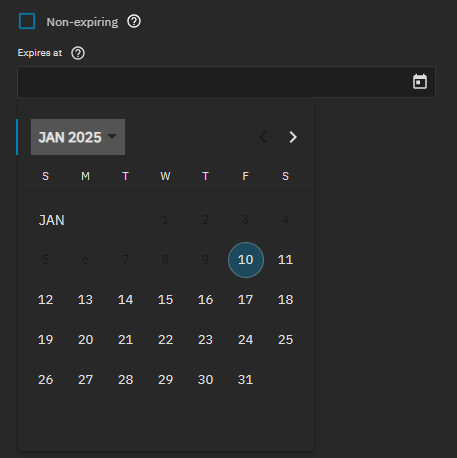
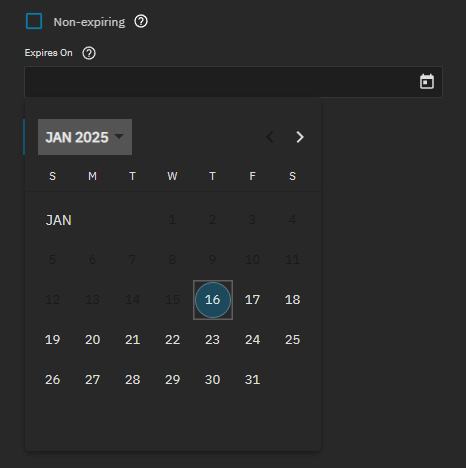
PD-1561 / None / Pd 1561 api key from api content (#3437)
* Update _index.md

* Update SCALEReleaseNotes.md

* Update ManagingAPIKeys.md

* Update APIKeyWarn.md

* Update _index.md

* Update SCALEReleaseNotes.md

* Update ManagingAPIKeys.md

* Update APIKeysScreen.md

* Update 25.04FeatureList.md

* Create API_AD.md

* Create APIKeyMigrate.md

* Update APIKeyWarn.md

* Update ManagingAPIKeys.md

* Update ManagingAPIKeys.md

* Update APIKeyMigrate.md

* Update APIKeyExpires.png

* Update APIKeyWarn.md

* Update APIKeyWarn.md

* Update ManagingAPIKeys.md

diff --git a/content/SCALE/GettingStarted/SCALEReleaseNotes.md b/content/SCALE/GettingStarted/SCALEReleaseNotes.md
@@ -59,9 +59,22 @@ More details are available from [Software Releases]({{< relref "/TrueNASUpgrades
   You can access TrueNAS API documentation in the web interface by clicking <i class="material-icons" aria-hidden="true" title="laptop" style="vertical-align: top;">laptop</i> **My API Keys** on the top right toolbar <i class="material-icons" aria-hidden="true">account_circle</i> user settings dropdown menu to open the **User API Keys** screen.
   Click **API Docs** to view API documentation.
 
+* 25.04 also introduces user-linked API access keys, allowing administrators to configure per-user access to the TrueNAS API.
+  Keys are revokable and can be configured to automatically expire on a preset date.
+  
+  {{< include file="/static/includes/API_AD.md" >}}
+
+  User-linked API keys allow for better integration of TrueNAS into third-party solutions.
+  Use this as a reference for projects that require direct TrueNAS integration.
+
+  {{< include file="/static/includes/APIKeyWarn.md" >}}
+
+  See [Managing API Keys]({{< relref "/scale/scaletutorials/toptoolbar/managingapikeys.md" >}}) for more information.
+
+  * {{< include file="/static/includes/APIKeyMigrate.md" >}}
+
 * The default libvirt account UID and GID is changed to to avoid possible clashes with user created Active Directory (AD) users. TrueNAS automatically updates libvirt UID and GIDs when upgraded to 25.04. Users attempting revert to 24.10 or an earlier release must manually review and update libvirt-qemu user and group IDs back to the values that were default in that version (64055:64055 for 24.10).
 
-   
 ### Upgrade Paths (Anticipated)
 <!--
 {{< include file="/static/includes/25.04UpgradeMethods.md" >}}
@@ -118,11 +131,9 @@ For more details on feature flags, see [OpenZFS Feature Flags](https://openzfs.g
 
 ## 25.04 Nightly Development Changelog
 
-* The TrueNAS REST API is deprecated in TrueNAS 25.04 and replaced by the [TrueNAS websocket client](https://github.com/truenas/api_client). Full removal of the REST API is planned for a future release.
-* The default libvirt account UID & GID is changed to a less common value to avoid clashing with user created UID/GIDs. See Upgrade Notes above for more information ([NAS-131695](https://ixsystems.atlassian.net/browse/NAS-131695)).
+* The TrueNAS REST API is deprecated in TrueNAS 25.04 and replaced with a versioned JSON-RPC 2.0 over WebSocket API ([API Reference]({{< relref "/scale/api/_index.md" >}})). Full removal of the REST API is planned for a future release.
 * Improved API key mechanism with support for user-linked API keys ([NAS-131396](https://ixsystems.atlassian.net/browse/NAS-131396)).
-  Existing API keys created via the TrueNAS API (not UI or TrueCommand) that specify an allow list with white-listed API methods are revoked upon upgrade because there is no clean way to migrate to the new system.
-  Legacy API keys from TrueNAS 24.10 or earlier migrate to the root, admin, or truenas_admin account, depending on server configuration
+* The default libvirt account UID & GID is changed to a less common value to avoid clashing with user created UID/GIDs. See Upgrade Notes above for more information ([NAS-131695](https://ixsystems.atlassian.net/browse/NAS-131695)).
 
 <!--
 

diff --git a/content/SCALE/SCALETutorials/TopToolbar/ManagingAPIKeys.md b/content/SCALE/SCALETutorials/TopToolbar/ManagingAPIKeys.md
@@ -9,6 +9,11 @@ tags:
 - apikeys
 ---
 
+TrueNAS 25.04 and later uses a versioned JSON-RPC 2.0 over WebSocket API with support for user-linked API access keys ([API Reference]({{< relref "/scale/api/_index.md" >}})).
+
+User-linked API keys allow administrators to configure per-user access to the TrueNAS API.
+Keys are revokable and can be configured to automatically expire on a preset date.
+
 Click <i class="material-icons" aria-hidden="true" title="laptop" style="vertical-align: top;">laptop</i> **My API Keys** on the top right toolbar <i class="material-icons" aria-hidden="true">account_circle</i> user settings dropdown menu to open the **User API Keys** screen.
 
 This screen displays a list of API keys added to your system and allows you to add, search, edit, or delete keys.
@@ -27,17 +32,20 @@ Click **Add** to open the **Add API Key** screen.
 Type a descriptive name for the key.
 Use the **Username** dropdown to select an administrative user to associate with this key.
 
+{{< include file="/static/includes/API_AD.md" >}}
+
 Accept the default **Non-expiring** to create a token with no expiration date.
 A non-expiring key remains active until it is manually revoked or updated.
 
 To create a key with a scheduled expiration, click to clear the **Non-expiring** checkbox.
-Click on the **Expires at** field and use the calendar dropdown to select the expiration date.
+Click on the **Expires On** field and use the calendar dropdown to select the expiration date.
 
 {{< trueimage src="/images/SCALE/Dashboard/APIKeyExpires.png" alt="Key Expiration Settings" id="Key Expiration Settings" >}}
 
 Click **Save** to generate the key.
 
-TrueNAS displays an **API Key** dialog containing the generated key value.
+TrueNAS displays an **API Key** dialog containing the generated key string.
+TrueNAS API key strings are 64 characters long and randomly generated.
 
 {{< trueimage src="/images/SCALE/Dashboard/APIKeyCopy.png" alt="API Key Success Dialog" id="API Key Success Dialog" >}}
 
@@ -55,11 +63,10 @@ Click <i class="material-icons" aria-hidden="true" title="Edit">edit</i> edit fo
 
 {{< trueimage src="/images/SCALE/Dashboard/APIKeysEdit.png" alt="Edit API Key" id="Edit API Key" >}}
 
-Select the **Reset** to remove the existing API key and generate a new random key.
+Select **Reset** to remove the existing API key string and generate a new random key.
 The dialog displays the new key and the **Copy to Clipboard** option.
 Click to copy the new API key string then save it in a secure location.
-
-{{< include file="/static/includes/APIKeyWarn.md" >}}
+Update any clients using the reset API Key with the new key string.
 
 ### Deleting an API Key
 

diff --git a/content/SCALE/API/_index.md b/content/SCALE/API/_index.md
@@ -9,6 +9,10 @@ related: false
 
 {{< include file="/static/includes/RESTAPIDeprecationNotice.md" >}}
 
+{{< include file="/static/includes/APIKeyMigrate.md" >}}
+
+## API Documentation
+
 You can access TrueNAS API documentation in the web interface by clicking <i class="material-icons" aria-hidden="true" title="laptop" style="vertical-align: top;">laptop</i> **My API Keys** on the top right toolbar <i class="material-icons" aria-hidden="true">account_circle</i> user settings dropdown menu to open the **User API Keys** screen.
 Click **API Docs** to view API documentation.
 
@@ -17,3 +21,17 @@ Click **API Docs** to view API documentation.
 Alternatively, append `/api/docs/` to your TrueNAS host name or IP address in a browser to access the API documentation.
 
 {{< include file="/static/includes/APIDocs.md" >}}
+
+## API Access
+
+User-linked API access keys allow administrators to configure per-user access to the TrueNAS API.
+Keys are revokable and can be configured to automatically expire on a preset date.
+  
+{{< include file="/static/includes/API_AD.md" >}}
+
+User-linked API keys allow for better integration of TrueNAS into third-party solutions.
+Use this as a reference for projects that require direct TrueNAS integration.
+
+{{< include file="/static/includes/APIKeyWarn.md" >}}
+
+See [Managing API Keys]({{< relref "/scale/scaletutorials/toptoolbar/managingapikeys.md" >}}) for more information.

diff --git a/static/includes/25.04FeatureList.md b/static/includes/25.04FeatureList.md
@@ -7,13 +7,11 @@
   
 * iSCSI Fibre Channel support (Enterprise Feature)
 
-* Versioned TrueNAS JSON-RPC 2.0 over WebSocket API (see [API Reference]({{< relref "/SCALE/API/_index.md" >}})).
+* Versioned TrueNAS JSON-RPC 2.0 over WebSocket API (see [API Reference]({{< relref "/SCALE/API/_index.md" >}}))
 
 * User-linked API Keys (see [Managing API Keys]({{< relref "/scale/scaletutorials/toptoolbar/managingapikeys.md" >}}))
 
-* User-linked API Keys (see [Managing API Keys]({{< relref "/scale/scaletutorials/toptoolbar/managingapikeys.md" >}}))
-
-* Improved UI Login Experience ([NAS-130810](https://ixsystems.atlassian.net/browse/NAS-130810)).
+* Improved UI Login Experience ([NAS-130810](https://ixsystems.atlassian.net/browse/NAS-130810))
 
 <--->
 
@@ -23,6 +21,6 @@
 
 * Enable support for ZFS Fast Deduplication ([NAS-127088](https://ixsystems.atlassian.net/browse/NAS-127088))
 
-* Improvements to the TrueNAS apps service including per-app selection of IP addresses ([Electric Eel Apps and IP Addressing](https://forums.truenas.com/t/electric-eel-apps-and-ip-addressing/27445)).
+* Improvements to the TrueNAS apps service including per-app selection of IP addresses ([Electric Eel Apps and IP Addressing](https://forums.truenas.com/t/electric-eel-apps-and-ip-addressing/27445))
 
 {{< /columns >}}

diff --git a/static/includes/APIKeyWarn.md b/static/includes/APIKeyWarn.md
@@ -1,6 +1,16 @@
 &NewLine;
 
-{{< hint type=warning >}}
+{{< hint type=warning title="API Key Security" >}}
 Always back up and secure keys.
-TrueNAS displays the key string only one time after creation, in the **API Key** confirmation dialog.
+TrueNAS displays the key string only once, in the **API Key** confirmation dialog, immediately after creation.
+
+User-linked API keys allow password-equivalent access to the TrueNAS middleware.
+API keys are not subject to the two-factor authentication (2FA) configuration of the associated user account.
+A compromised API key results in access to the TrueNAS API as the associated user, even if the account is configured to require 2FA.
+
+For increased security, HTTPS with SSL/TLS transport security is required for TrueNAS API authentication using API keys.
+TrueNAS automatically revokes any user-linked API keys passed as part of an authentication attempt via insecure (HTTP) transport.
+A revoked API key cannot be used until it is reset.
+Resetting generates a new key-string.
+Remember to update clients to use the new key.
 {{< /hint >}}

diff --git a/static/includes/APIKeyMigrate.md b/static/includes/APIKeyMigrate.md
@@ -1,0 +1,6 @@
+&NewLine;
+
+Legacy API keys created in TrueNAS 24.10 or earlier migrate to the root, admin, or truenas_admin account, depending on server configuration.
+
+Existing API keys created via the TrueNAS API (not UI or TrueCommand) that specify an allow list with white-listed API methods are revoked upon upgrade because there is no clean way to migrate to the new system.
+Administrators should create a service account (a user account for this particular purpose), define desired access rights for this service account, [generate a new user-linked API key]({{< relref "/scale/scaletutorials/toptoolbar/managingapikeys.md" >}}), and distribute it to the API client.

diff --git a/content/SCALE/SCALEUIReference/TopToolbar/Settings/APIKeysScreen.md b/content/SCALE/SCALEUIReference/TopToolbar/Settings/APIKeysScreen.md
@@ -22,7 +22,7 @@ This screen displays a list of API keys added to your system and allows you to a
 
 {{< include file="/static/includes/APIKeyWarn.md" >}}
 
-<i class="material-icons" aria-hidden="true" title="Edit">edit</i> edit for any API key on the list openss the **Edit API Key** window to modify that key.
+<i class="material-icons" aria-hidden="true" title="Edit">edit</i> edit for any API key on the list opens the **Edit API Key** window to modify that key.
 
 {{< trueimage src="/images/SCALE/Dashboard/APIKeysEdit.png" alt="Edit API Key" id="Edit API Key" >}}
 

diff --git a/static/includes/API_AD.md b/static/includes/API_AD.md
@@ -1,0 +1,5 @@
+&NewLine;
+
+{{< hint type=note >}}
+Active Directory/LDAP user-linked API key support is available to TrueNAS Enterprise customers only.
+{{< /hint >}}
